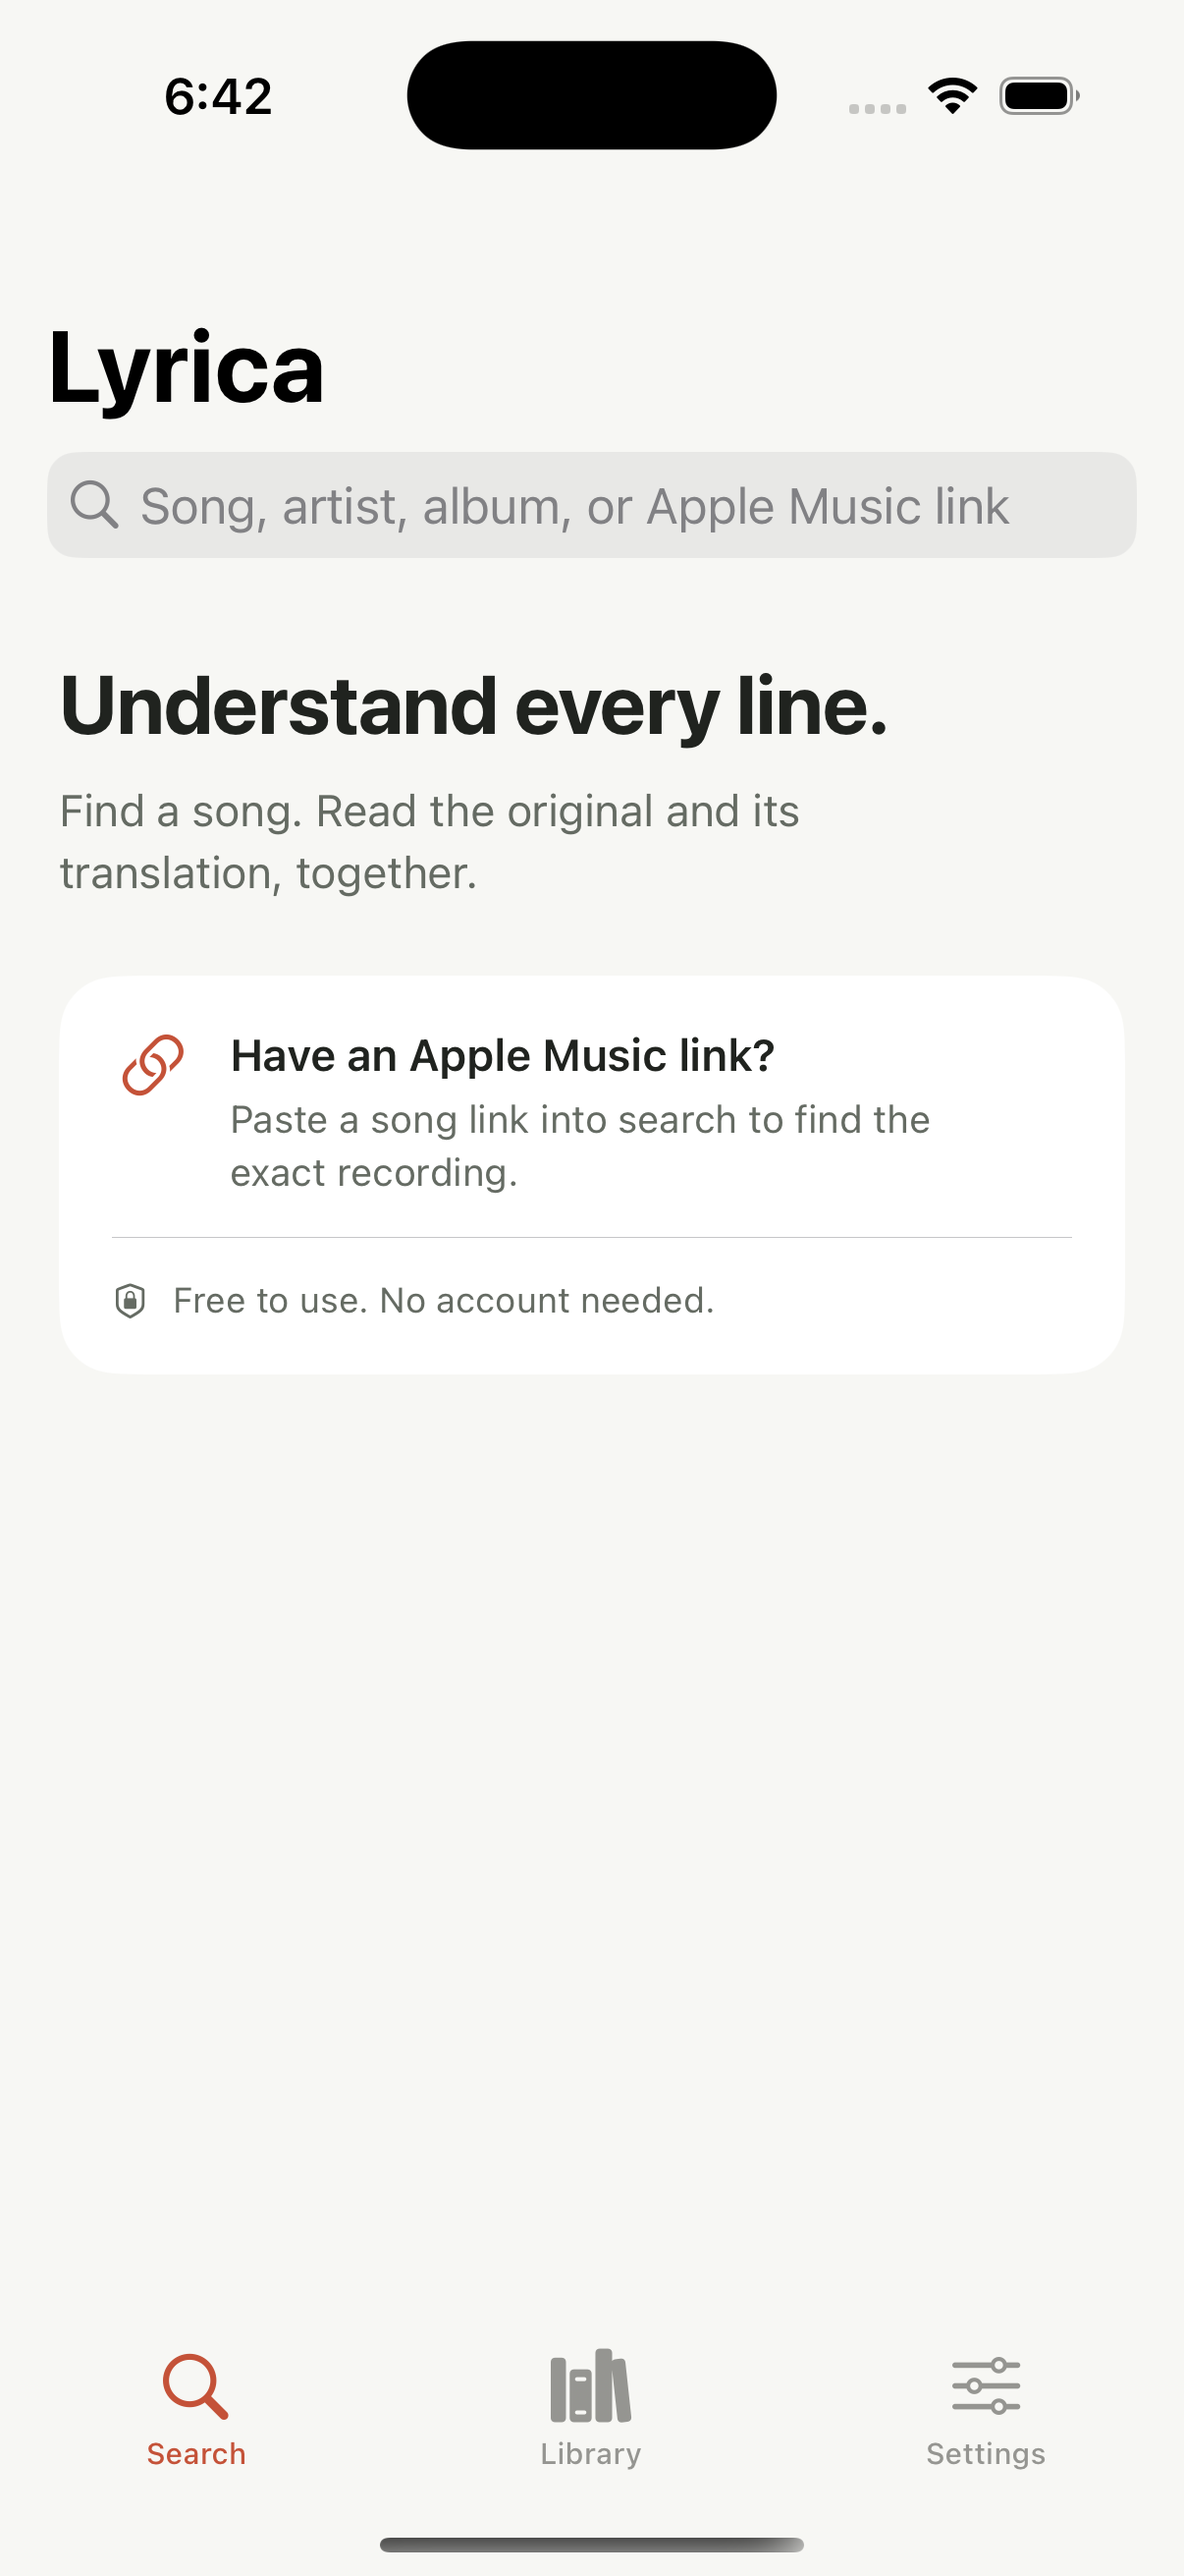
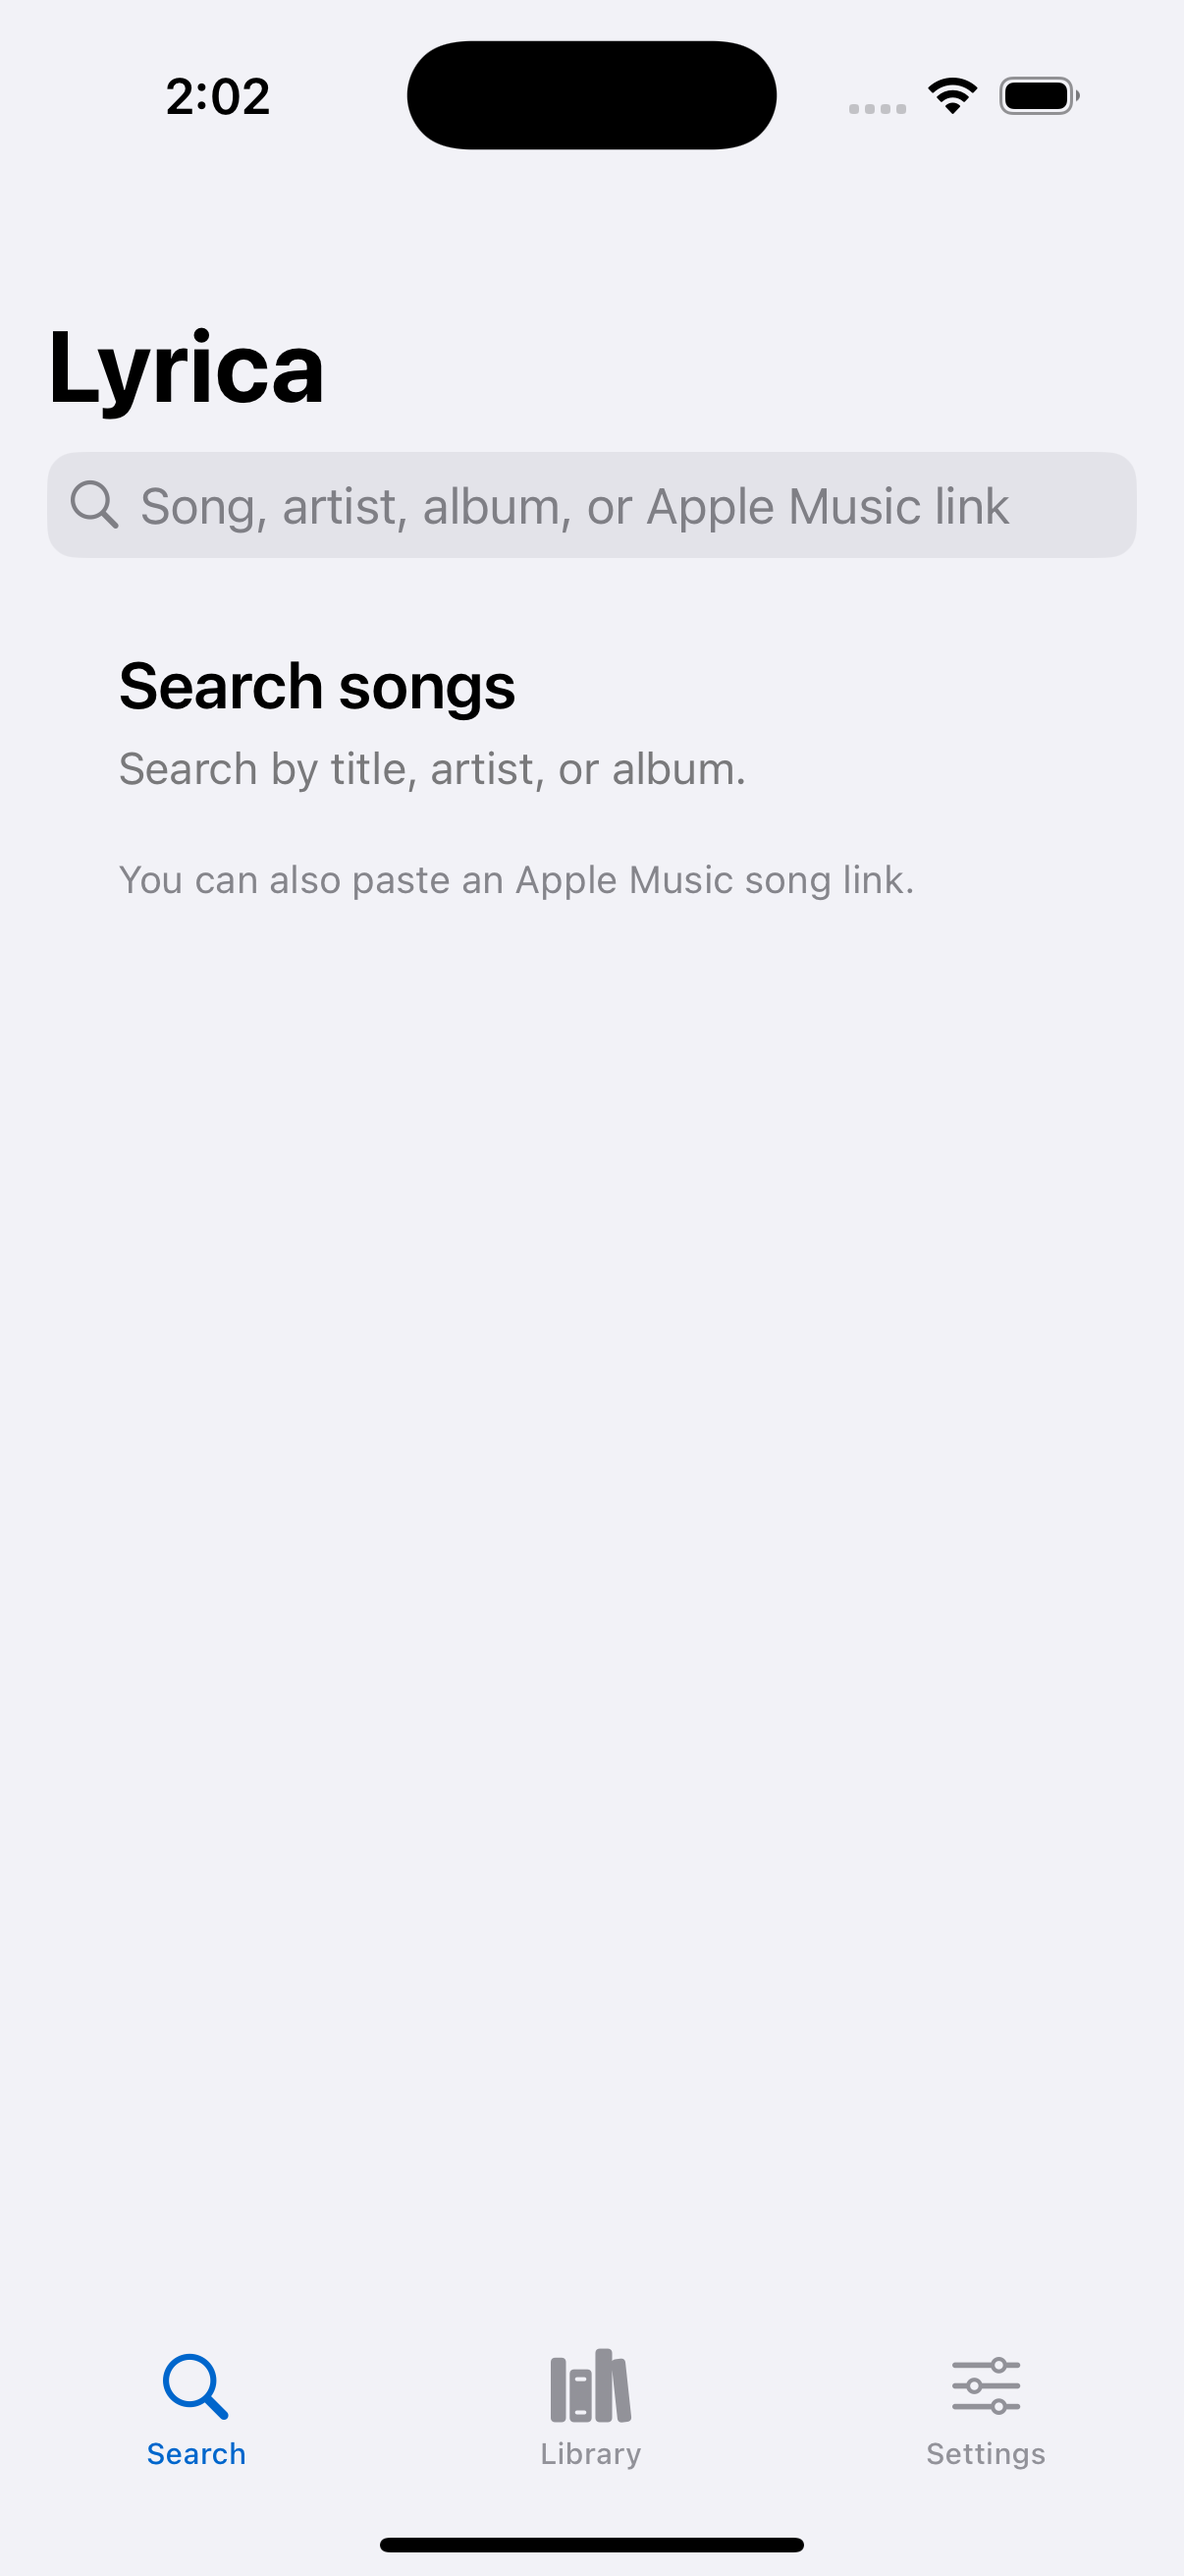
Publish current native previews and UI verification evidence

diff --git a/docs/VALIDATION.md b/docs/VALIDATION.md
@@ -1,21 +1,21 @@
-# Modern UI verification
+# UI verification
 
-Verified implementation and captures on 2026-10-28. The UI changes preserve the existing storage schemas, opt-in cache permissions, source services, and translation providers.
+Verified implementation and browser captures on 2026-10-29. The UI changes preserve the existing storage schemas, opt-in cache permissions, source services, and translation providers.
 
 ## Automated results
 
-- [Native workflow passed](https://github.com/Kerollosl/lyrica/actions/runs/40746794585): device build, simulator build, 22 core tests and 11 native persistence/view-model tests. Native UI source is unchanged since tested commit `5aac038`.
-- [Final web workflow passed](https://github.com/Kerollosl/lyrica/actions/runs/40747387859): 9 domain tests plus the complete deterministic browser suite on web implementation commit `bfb9f33`.
-- Web browser checks include search/lyrics retrieval, debouncing cancellation, keyboard skip and search shortcut, paired highlights, reader disclosure controls, font-size changes, stacked layout, cached language switching, Arabic RTL, permitted-cache opt-in, metadata-only favorites, persistence, manual line alignment, edited-lyrics invalidation, cache clearing, individual removal and complete deletion.
+- [Native build/test steps and captures](https://github.com/Kerollosl/lyrica/actions/runs/40802828652): device build, simulator build, 22 core tests, and 11 native persistence/view-model tests passed on native UI commit `de3c3a7`. Both Search screenshots were exported and uploaded. GitHub marks the overall run canceled because cancellation was requested during a delayed export, which subsequently completed. The [follow-up run](https://github.com/Kerollosl/lyrica/actions/runs/40804011446) checks the unchanged app source with a three-minute limit on optional screenshot export.
+- [Final web workflow passed](https://github.com/Kerollosl/lyrica/actions/runs/40803523842): 9 domain tests plus the complete deterministic browser suite on web implementation commit `2f8c39d`.
+- Web browser checks include search/lyrics retrieval, debouncing cancellation, keyboard skip and search shortcut, active-tab reselection from the reader, paired highlights, reader disclosure controls, font-size changes, stacked layout, cached language switching, Arabic RTL, permitted-cache opt-in, metadata-only favorites, persistence, manual line alignment, edited-lyrics invalidation, cache clearing, individual removal and complete deletion.
 - Loading, no-results, rate-limit, unavailable lyrics, and network retry flows use original fixture text. No commercial lyrics are stored in test fixtures.
-- Responsive matrix: 390, 768, and 1440px, light/dark themes, all primary screens, largest text, long authored lines and unbroken tokens, Arabic, favorites and empty libraries. No horizontal overflow or page errors. Long title/artist/album wrapping was also checked at all three widths.
-- Offline verification: service-worker application shell and the original bilingual demo reopen without a connection. The cache includes the locally hosted font and SVG icon module; external API responses are excluded.
+- Responsive matrix: 390, 768, and 1440px, light/dark themes, all primary screens, largest text, long authored lines and unbroken tokens, Arabic, favorites and empty libraries. No horizontal overflow or page errors. Additional regression checks cover unbroken title/artist/album metadata at 390px, permission choices inside a 320px dialog, and visible controls and selections in forced-colors mode.
+- Offline verification: service-worker application shell and the original bilingual demo reopen without a connection. The cache contains only the static application shell, including its SVG icon module; external API responses are excluded. System typography requires no font download.
 
 ## Runtime media
 
 - `docs/web/screenshots/` contains 24 real browser captures and a capture manifest. The scenes use only Lyrica's original demo material and actual local save flows. Mobile captures show the viewport and fixed navigation.
-- `docs/ios/` contains real light/dark iPhone Search simulator captures from the successful native workflow.
-- `docs/lyrica-walkthrough.mp4` is a roughly 62-second H.264 browser recording, with captions, no audio, and included example translations. It does not demonstrate a live translation-model download.
+- `docs/ios/` contains current light/dark iPhone Search simulator captures from native UI commit `de3c3a7`; these were visually reviewed after download from the run above.
+- `docs/lyrica-walkthrough.mp4` is a roughly 63-second H.264 browser recording, with captions, no audio, and included example translations. It does not demonstrate a live translation-model download.
 - `scripts/record_web_walkthrough.py` and `tests/web/capture.py` reproduce the web media with a local server running.
 
 ## Remaining device checks
